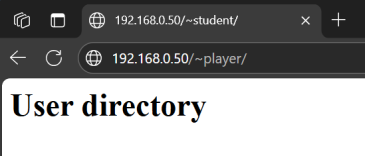
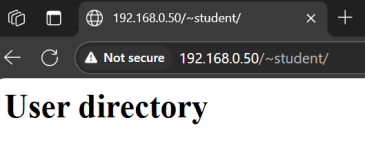
08-added-solutions-21-22

diff --git a/README.md b/README.md
@@ -173,8 +173,18 @@ chmod 711 ~
 ```
 10. Browser accessibility test of the user's home directory.  
 
-http://192.168.0.50/~player - will show the page in the player user directory  
+http://192.168.0.50/~student - will show the page in the student user directory  
 ![alt text](./assets/4.png)  
+
+21. 
+```bash
+cat /etc/os-release
+```
+22. 
+```bash
+uptime
+```
+
 
 
 ## How to secure Rocky Linux 9
